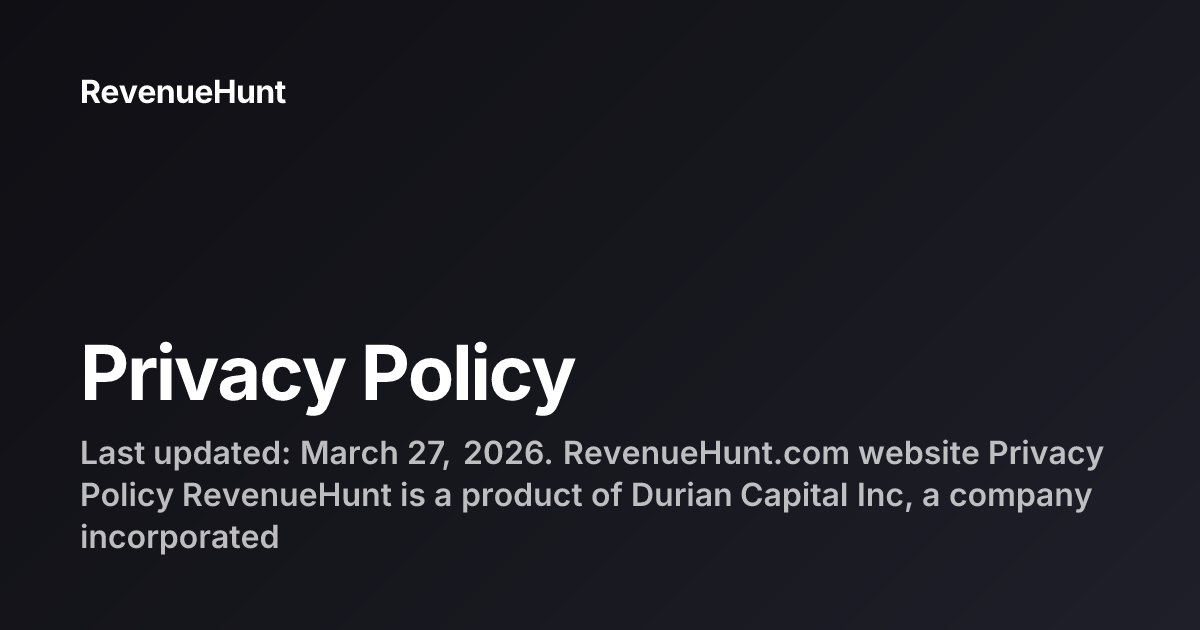
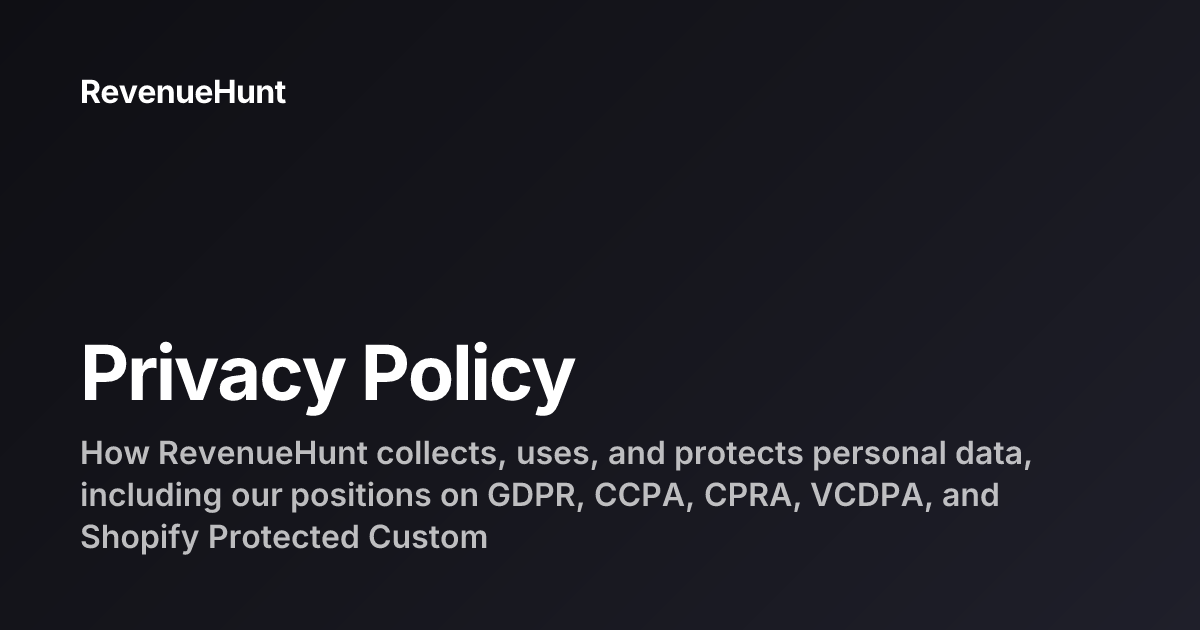
CTP G1–G3: SLA tiers, security page, privacy refresh, legal entity
G1: Tiered SLA copy on /contact (critical 30-min/24/7, high 12h,
standard 1 business day, low 3 business days).
G2: Public /security page with vuln disclosure process, safe harbour,
scope, and 72h ack / 5-day triage timeline. RFC 9116 security.txt at
/.well-known/security.txt. Footer link added.
G3: Privacy policy refreshed — explicit CCPA/CPRA, VCDPA/CPA/CTDPA/UCPA,
Shopify Protected Customer Data sections; EU-US DPF + SCCs replacing
outdated Privacy Shield; DPA availability statement added.
tos.md: Legal entity (Dairy Capital Limited, England & Wales no. 12503996)
identified in opening section; updatedDate bumped to 2026-05-19.

Changed region(s): [[0.0617, 0.6937, 0.925, 0.8746]]

diff --git a/src/content/pages/privacy.md b/src/content/pages/privacy.md
@@ -1,8 +1,8 @@
 ---
 title: "Privacy Policy"
-description: "Last updated: March 27, 2026. RevenueHunt.com website Privacy Policy RevenueHunt is a product of Durian Capital Inc, a company incorporated in the British Virgin Islands (BVI) under company number 2115498. References to “RevenueHunt”, “we”, “us” or “our” in this policy refer to D"
+description: "How RevenueHunt collects, uses, and protects personal data, including our positions on GDPR, CCPA, CPRA, VCDPA, and Shopify Protected Customer Data."
 pubDate: 2026-01-18T05:31:34Z
-updatedDate: 2026-03-27T10:00:14Z
+updatedDate: 2026-05-19T00:00:00Z
 legacySlug: "privacy"
 legacyId: 11956
 legacyUrl: "https://revenuehunt.com/privacy/"
@@ -10,11 +10,13 @@ featuredImage: null
 draft: false
 ---
 
-Last updated: March 27, 2026.
+Last updated: May 19, 2026.
+
+Download for review: [DOCX](/legal/RevenueHunt-Privacy-Policy.docx) · [CSV](/legal/RevenueHunt-Privacy-Policy.csv).
 
 ## RevenueHunt.com website Privacy Policy
 
-**RevenueHunt** is a product of **Durian Capital Inc**, a company incorporated in the British Virgin Islands (BVI) under company number 2115498. References to “RevenueHunt”, “we”, “us” or “our” in this policy refer to Durian Capital Inc.
+**RevenueHunt** is a product of **Dairy Capital Limited**, a private limited company incorporated in England and Wales under company number 12503996, with registered office at Vision Accounting Fortis House, Cothey Way, Ryde, Isle of Wight, PO33 1QT, United Kingdom. References to “RevenueHunt”, “we”, “us” or “our” in this policy refer to Dairy Capital Limited.
 
 For RevenueHunt current or potential business customers who use our website.
 
@@ -130,11 +132,53 @@ We handle personal data under the following legal bases:
 1.  Contract fulfillment: We process data as a data processor, following the explicit instructions of our customers.
 2.  Legitimate interest: We use personal data to send marketing and other communications to our business customers. Additionally, we may analyze how our business customers use our products and services to enhance them.
 
-**RevenueHunt is operated by Durian Capital Inc, incorporated in the British Virgin Islands. Our servers are located in the United States (Amazon AWS).** If you are accessing our website from outside the U.S., providing us with your personal information implies your consent for the transfer of that information to the United States. When transferring personal data to be processed by our service providers or partners in the U.S., we rely on model contracts approved by the European Commission or the U.S.-EU Privacy Shield Framework.
+**RevenueHunt is operated by Dairy Capital Limited, incorporated in England and Wales (company number 12503996). Our servers are located in the United States (Amazon AWS).** If you are accessing our website from outside the U.S., providing us with your personal information implies your consent for the transfer of that information to the United States. When transferring personal data from the EEA, UK, or Switzerland to be processed by our service providers or partners in the U.S., we rely on the **EU-US Data Privacy Framework** (where applicable) and the **Standard Contractual Clauses** approved by the European Commission. The EU-US Privacy Shield, which previously governed some transfers, was invalidated in 2020 and is no longer used as a transfer mechanism.
 
-European visitors who wish to exercise their data subject rights can get in touch with us or file a complaint by emailing us at [info@revenuehunt.com](mailto:info@revenuehunt.com)
+European visitors who wish to exercise their data subject rights can get in touch with us or file a complaint by emailing us at [info@revenuehunt.com](mailto:info@revenuehunt.com).
 
 Alternatively, you may lodge a complaint with your local Data Protection Authority.
+
+## For our California visitors (CCPA and CPRA)
+
+The California Consumer Privacy Act (**CCPA**), as amended by the California Privacy Rights Act (**CPRA**), gives California residents specific rights with respect to their personal information. We honour these rights for all California residents whose personal information we process, regardless of whether the statutory thresholds technically apply to our business.
+
+Your rights under CCPA/CPRA:
+
+- **Right to know.** You can request the categories and specific pieces of personal information we have collected about you, the sources, the business purposes, and any third parties with whom we have shared it in the preceding 12 months.
+- **Right to delete.** You can request that we delete personal information we have collected from you, subject to legal retention requirements.
+- **Right to correct** (CPRA). You can request that we correct inaccurate personal information we hold about you.
+- **Right to opt out of sale or sharing.** RevenueHunt does **not sell** personal information for monetary consideration, and we do not "share" personal information for cross-context behavioural advertising as defined under CPRA. If this ever changes we will provide a clear "Do Not Sell or Share My Personal Information" link before any such activity begins.
+- **Right to limit the use of sensitive personal information** (CPRA). We do not use sensitive personal information for purposes that would trigger this right under the current CPRA regulations.
+- **Right to non-discrimination.** We will not deny services, charge different prices, or provide a different level of service because you exercised your privacy rights.
+
+To exercise any of these rights, email us at [info@revenuehunt.com](mailto:info@revenuehunt.com) with the subject line "California privacy request". We will verify your identity before processing the request, and we will respond within the statutory 45-day window (extendable once by an additional 45 days if reasonably necessary, with notice).
+
+You may also designate an authorised agent to make a request on your behalf. The agent must provide written permission from you, and we may require you to verify your identity directly with us.
+
+## For our Colorado, Connecticut, Utah, and Virginia visitors
+
+The Virginia Consumer Data Protection Act (**VCDPA**), the Colorado Privacy Act (**CPA**), the Connecticut Data Privacy Act (**CTDPA**), and the Utah Consumer Privacy Act (**UCPA**) give consumers in those states rights similar to GDPR and CCPA. We extend the following rights to residents of these states:
+
+- **Right of access.** You can request confirmation of whether we are processing your personal data and a copy of that data.
+- **Right to correct** inaccuracies (Virginia, Colorado, Connecticut).
+- **Right to delete** personal data we hold about you.
+- **Right to data portability** in a usable, machine-readable format where technically feasible.
+- **Right to opt out** of targeted advertising, sale of personal data, and significant profiling decisions. RevenueHunt does not engage in any of these activities; the opt-out is available regardless.
+- **Right to appeal** if we refuse a privacy request. We will respond to appeals within the statutory window for each state.
+
+To exercise any of these rights, email us at [info@revenuehunt.com](mailto:info@revenuehunt.com) with the subject line "State privacy request" and identify the state you reside in. We respond within the timeframe required by the applicable law, which is typically 45 days from a verified request.
+
+## Shopify Protected Customer Data
+
+When RevenueHunt operates as a Shopify app, the personal information we process about a merchant's customers is **Protected Customer Data** as defined by Shopify. We meet [Shopify's Level 1 and Level 2 requirements](https://shopify.dev/docs/apps/store/data-protection/protected-customer-data#requirements) for handling this data, which include:
+
+- Requesting only the minimum API scopes necessary for our quiz product to function
+- Encrypting Protected Customer Data in transit (TLS 1.2+) and at rest (AES-128+)
+- Restricting staff access to Protected Customer Data on a least-privilege basis with role-based access controls and multi-factor authentication
+- Retaining Protected Customer Data only for as long as is necessary to deliver the service
+- Supporting customer data subject requests originating from the merchant via Shopify's GDPR webhooks (`customers/data_request`, `customers/redact`, `shop/redact`)
+
+Merchants who require a signed **Data Processing Agreement (DPA)** can request one at [info@revenuehunt.com](mailto:info@revenuehunt.com). The DPA covers our role as a processor under GDPR, our role as a service provider under CCPA/CPRA, and our role as a processor under VCDPA, CPA, CTDPA, and UCPA, including the Standard Contractual Clauses for cross-border transfers and our subprocessor list.
 
 ## What information we collect
 
@@ -148,7 +192,7 @@ Alternatively, you may lodge a complaint with your local Data Protection Authori
 
 **How long do we store or retain the data we collect:** We retain your personal information for as long as we deem it necessary to maintain our relationship with you or as mandated by applicable laws. You can request the deletion of your information at any time.
 
-**Location of our company and our servers:** RevenueHunt is operated by Durian Capital Inc, incorporated in the British Virgin Islands. Our servers are located in the United States (Amazon AWS).
+**Location of our company and our servers:** RevenueHunt is operated by Dairy Capital Limited, incorporated in England and Wales (company number 12503996). Our servers are located in the United States (Amazon AWS).
 
 ## Information and Data Security
 

diff --git a/src/content/pages/security.md b/src/content/pages/security.md
@@ -1,0 +1,118 @@
+---
+title: "Security"
+description: "How RevenueHunt protects merchant and customer data, our security contact, and the vulnerability disclosure process."
+pubDate: 2026-05-19T00:00:00Z
+updatedDate: 2026-05-19T00:00:00Z
+legacySlug: "security"
+legacyId: 99001
+legacyUrl: "https://revenuehunt.com/security/"
+featuredImage: null
+draft: false
+---
+
+Last updated: May 19, 2026.
+
+Download for review: [DOCX](/legal/RevenueHunt-Information-Security-Policy.docx) · [CSV](/legal/RevenueHunt-Information-Security-Policy.csv).
+
+## Security at RevenueHunt
+
+RevenueHunt is built and operated by **Dairy Capital Limited**, a private limited company incorporated in England and Wales (company number 12503996, registered office: Vision Accounting Fortis House, Cothey Way, Ryde, Isle of Wight, PO33 1QT, United Kingdom). We process data on behalf of ecommerce merchants on Shopify, WooCommerce, BigCommerce, and Magento. Their trust depends on our security posture, so we treat it as a first-class engineering concern, not a paperwork exercise.
+
+This page summarises our practices, our public security contact, and how to report a vulnerability.
+
+## Reporting a vulnerability
+
+If you believe you have found a security vulnerability in any RevenueHunt product, please report it to us privately so we can address it before it puts merchants or their customers at risk.
+
+**Security contact:** [security@revenuehunt.com](mailto:security@revenuehunt.com)
+
+**What to include in your report:**
+
+- A clear description of the issue and where it occurs (URL, endpoint, app surface)
+- Reproduction steps and any proof-of-concept code or screenshots
+- The potential impact you believe it could have
+- Your name or handle if you would like to be credited
+
+We also publish a machine-readable contact at [/.well-known/security.txt](/.well-known/security.txt) per [RFC 9116](https://www.rfc-editor.org/rfc/rfc9116).
+
+### Response timeline
+
+- **Initial acknowledgement:** within 72 hours of receiving the report
+- **Triage and severity assessment:** within 5 business days
+- **Remediation targets from confirmation:** critical within 24 hours, high severity within 7 days, medium and low severity within 30 days
+- **Public disclosure coordination:** we work with the reporter on a timeline; we ask for 90 days from acknowledgement before public disclosure unless there is an active exploit
+
+### Safe harbour
+
+We will not pursue or support legal action against researchers who:
+
+- Make a good-faith effort to comply with this policy
+- Avoid privacy violations, data destruction, and service degradation
+- Do not exploit findings beyond what is necessary to demonstrate the issue
+- Give us a reasonable window to remediate before public disclosure
+
+## What is in scope
+
+- `revenuehunt.com` and its subdomains, excluding third-party services
+- The RevenueHunt admin app at `admin.revenuehunt.com`
+- The Product Recommendation Quiz Shopify app and its storefront extensions
+- The WooCommerce, BigCommerce, and Magento plugins published under our name
+- The RevenueHunt public APIs documented at [docs.revenuehunt.com](https://docs.revenuehunt.com/)
+
+## What is out of scope
+
+- Third-party services we integrate with (Shopify, Klaviyo, HubSpot, Recharge, Omnisend, Google Analytics, Amazon AWS, Cloudflare)
+- Social engineering, phishing, or physical attacks against our team
+- Denial-of-service or volumetric attacks
+- Findings from automated scanners without a meaningful proof of concept
+- Best-practice recommendations without a demonstrable security impact
+
+## Our security practices
+
+### Data handling
+
+- All data in transit is protected with TLS 1.2 or higher
+- All data at rest is encrypted with AES-128 or higher
+- API tokens and secrets are stored in dedicated secret-management systems, never in plaintext
+- We collect the minimum data needed to deliver our services and request only the API scopes required for each integration
+
+### Shopify Protected Customer Data
+
+RevenueHunt meets [Shopify's Level 1 and 2 requirements](https://shopify.dev/docs/apps/store/data-protection/protected-customer-data#requirements) for Protected Customer Data. This includes minimum-scope access, encryption requirements, retention policies, and the staff-access controls described below.
+
+### Access control
+
+- Role-based access control across all production systems
+- Multi-factor authentication required for every staff member with access to production data or systems
+- Minimum 12-character passwords on internal accounts
+- Production access is granted on a least-privilege, need-to-know basis and is reviewed on staff role changes
+- All access to production data is logged and auditable
+
+### Infrastructure
+
+- Production services run on Amazon AWS in the United States
+- Test and production environments are fully separated, with no shared credentials
+- Backups are encrypted and restoration is tested annually
+- Application and infrastructure logs include anomaly detection so unusual patterns are surfaced for review
+
+### Software development
+
+- We use the latest two stable versions of the Shopify Admin API in supported services, with a documented migration plan for upgrading on each quarterly release
+- Dependencies are tracked and patched on a regular cadence
+- Code changes go through review before reaching production
+- We conduct regular internal security assessments, and we engage third-party providers for periodic penetration testing against OWASP and NIST standards
+
+### Incident response
+
+- All confirmed security incidents are communicated to affected merchants and to the relevant platform (Shopify, WooCommerce, BigCommerce, Magento) within **72 hours** of confirmation
+- Critical production incidents receive a first response within **30 minutes**, 24 hours a day, 7 days a week, through our support channel
+- Post-incident reviews are written for every confirmed security incident and shared with the affected parties
+- The current production status of RevenueHunt is published at [status.revenuehunt.com](https://status.revenuehunt.com/) with at least 99.9% uptime as our service level objective
+
+## Privacy and compliance
+
+RevenueHunt's data handling is described in detail in our [Privacy Policy](/privacy/), which includes our positions on GDPR, CCPA, CPRA, VCDPA, and Shopify's Protected Customer Data programme. A signed Data Processing Agreement is available on request to merchants who require one.
+
+## Questions
+
+For security questions that are not vulnerability reports — for example, requests for our security questionnaire, DPA, or SOC documentation — please email [security@revenuehunt.com](mailto:security@revenuehunt.com) with "Security questionnaire" in the subject line.

diff --git a/src/content/pages/tos.md b/src/content/pages/tos.md
@@ -2,7 +2,7 @@
 title: "Terms of Service"
 description: "Last updated: January 18, 2026. Welcome to RevenueHunt Thank you for using RevenueHunt’s products and services. The use of this website implies the acceptance of each and every one of the Terms of Service on this page. We want you to read these Terms of Service, therefore, they a"
 pubDate: 2019-07-21T22:45:31Z
-updatedDate: 2026-01-18T05:51:48Z
+updatedDate: 2026-05-19T00:00:00Z
 legacySlug: "tos"
 legacyId: 3
 legacyUrl: "https://revenuehunt.com/tos/"
@@ -10,11 +10,13 @@ featuredImage: "/img/pages/tos/photo-1433439216031-9571132ce719.jpeg"
 draft: false
 ---
 
-Last updated: January 18, 2026.
+Last updated: May 19, 2026.
 
 ## Welcome to RevenueHunt
 
 Thank you for using RevenueHunt’s products and services.
+
+**RevenueHunt** is a product of **Dairy Capital Limited**, a private limited company incorporated in England and Wales under company number 12503996, with registered office at Vision Accounting Fortis House, Cothey Way, Ryde, Isle of Wight, PO33 1QT, United Kingdom. References to “RevenueHunt”, “we”, “us” or “our” in these Terms refer to Dairy Capital Limited.
 
 The use of this website implies the acceptance of each and every one of the Terms of Service on this page.
 
